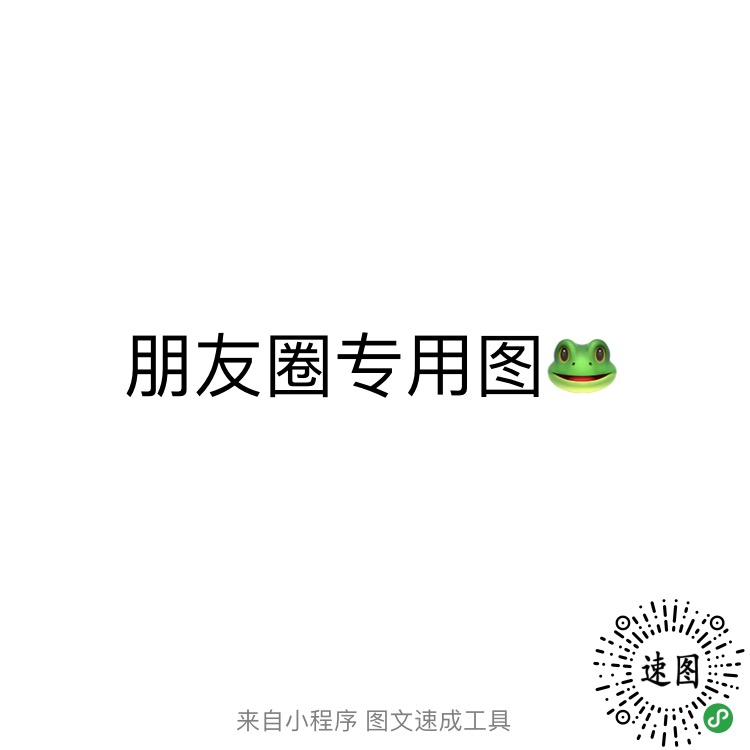
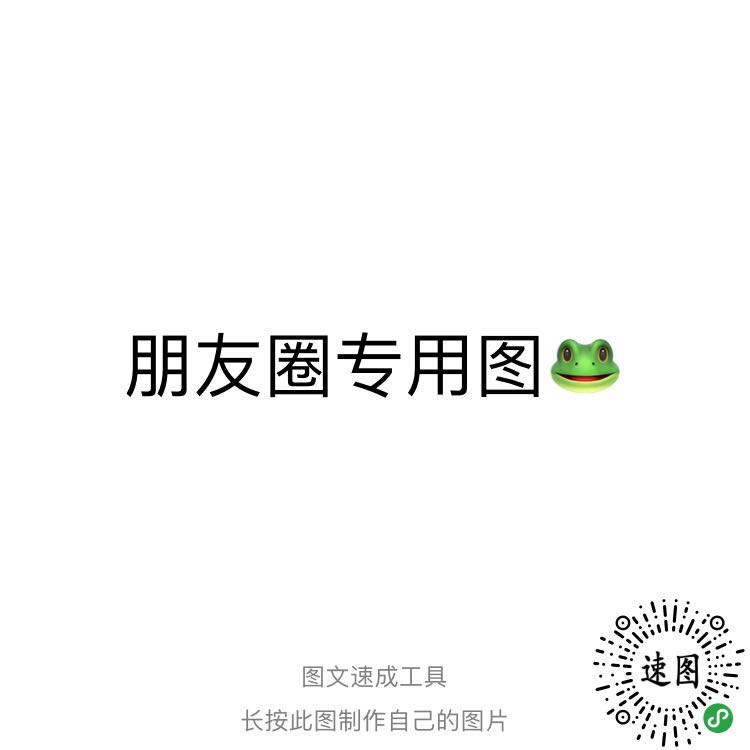
update

Changed region(s): [[0.3067, 0.8893, 0.6747, 0.9813], [0.7053, 0.4293, 0.828, 0.5213]]

diff --git a/page/black/index.js b/page/black/index.js
@@ -82,7 +82,7 @@ Page({
         },
         bigwordCode: "/image/logo_white.png",
         bigwordCodeSize: 80,
-        bigwordText: "来自小程序 图文速成工具",
+        bigwordText: "", 
         bigwordTextSize: 12,
         bigwordTextColor: "Gray"
     },
@@ -157,37 +157,29 @@ Page({
         var screenHeight = screenWidth
 
 
+        var data = {
+            bigwordText: app.globalData.bigwordText,
+            userInfo: app.globalData.userInfo,
+            hasUserInfo: true,
+            systemInfo: systemInfo,
+            showWidth: screenWidth,
+            showHeight: screenHeight
+        }
 
         if (app.globalData.userInfo) {
-            that.setData({
-                userInfo: app.globalData.userInfo,
-                hasUserInfo: true,
-                systemInfo: systemInfo,
-                showWidth: screenWidth,
-                showHeight: screenHeight
-            })
+            that.setData(data)
         } else if (this.data.canIUse) {
             app.userInfoReadyCallback = res => {
-                that.setData({
-                    userInfo: res.userInfo,
-                    hasUserInfo: true,
-                    systemInfo: systemInfo,
-                    showWidth: screenWidth,
-                    showHeight: screenHeight
-                })
+                data.userInfo = res.userInfo
+                that.setData(data)
             }
         } else {
             // 在没有 open-type=getUserInfo 版本的兼容处理
             wx.getUserInfo({
                 success: res => {
                     app.globalData.userInfo = res.userInfo
-                    that.setData({
-                        userInfo: res.userInfo,
-                        hasUserInfo: true,
-                        systemInfo: systemInfo,
-                        showWidth: screenWidth,
-                        showHeight: screenHeight
-                    })
+                    data.userInfo = res.userInfo
+                    that.setData(data)
                 }
             })
         }
@@ -278,6 +270,7 @@ Page({
         var fontColor = that.data.toFrontColorView
         var fillColor = that.data.toBackColorView
         var bigwordText = that.data.bigwordText
+        var bigwordText2 = "图文速成工具"
         var bigwordTextSize = that.data.bigwordTextSize
         var bigwordTextColor = that.data.bigwordTextColor
         var name = that.data.name
@@ -297,10 +290,14 @@ Page({
         context.setTextAlign("center")
         context.fillText(name, showWidth / 2, (showHeight + fontSize/2) / 2)
 
+
+
         context.setFillStyle(bigwordTextColor)
         context.setFontSize(bigwordTextSize)
         context.setTextAlign("center")
         context.fillText(bigwordText, showWidth / 2, showHeight - 10)
+        context.fillText(bigwordText2, showWidth / 2, showHeight - (bigwordTextSize + 20))
+
 
         context.drawImage(bigwordCode, showWidth - bigwordCodeSize, showHeight - bigwordCodeSize, bigwordCodeSize, bigwordCodeSize)
 

diff --git a/page/more_simple/index.js b/page/more_simple/index.js
@@ -7,8 +7,8 @@ Page({
         desc: "by tiankonguse",
         btnText: "一键速成",
         lableName: "你的图文",
-        imagePath: "/image/more.jpg",
-        defaultImagePath: "/image/more.jpg",
+        imagePath: "/image/more_sampe.jpg",
+        defaultImagePath: "/image/more_sampe.jpg",
         name: "朋友圈专用图",
         defaultName: "在此输入多行文本，支持表情哦",
         maskHidden: true,
@@ -86,7 +86,7 @@ Page({
         },
         bigwordCode: "/image/logo_white.png",
         bigwordCodeSize: 80,
-        bigwordText: "来自小程序 图文速成工具",
+        bigwordText: "", 
         bigwordTextSize: 12,
         bigwordTextColor: "Gray",
         nameList: [],
@@ -247,6 +247,7 @@ Page({
         var screenHeight = screenWidth
 
         var data = {
+            bigwordText: app.globalData.bigwordText,
             userInfo: app.globalData.userInfo,
             hasUserInfo: true,
             systemInfo: systemInfo,
@@ -362,6 +363,7 @@ Page({
         var fontColor = that.data.toFrontColorView
         var fillColor = that.data.toBackColorView
         var bigwordText = that.data.bigwordText
+        var bigwordText2 = "图文速成工具"
         var bigwordTextSize = that.data.bigwordTextSize
         var bigwordTextColor = that.data.bigwordTextColor
         var bigwordCodeSize = that.data.bigwordCodeSize
@@ -389,9 +391,11 @@ Page({
                 var name = nameList[j]
                 if (nameList.length > 1){
                     context.setTextAlign("left")
+                    console.log(i, j, name, name.length)
                     context.fillText(name, (showWidth - that.data.maxTextWidth)/2, firstHeight + tmpSize)
                 }else{
                     context.setTextAlign("center")
+                    console.log(i, j, name,  name.length)
                     context.fillText(name, showWidth / 2, firstHeight + tmpSize)
                 }
                 firstHeight += tmpSize + wordPad
@@ -404,6 +408,7 @@ Page({
         context.setTextAlign("center")
         context.setTextBaseline('bottom')
         context.fillText(bigwordText, showWidth / 2, showHeight - 10)
+        context.fillText(bigwordText2, showWidth / 2, showHeight - (bigwordTextSize + 20))
         context.draw(true)
 
         //context.setGlobalAlpha(0.8)

diff --git a/page/more/index.js b/page/more/index.js
@@ -88,7 +88,7 @@ Page({
         },
         bigwordCode: "/image/logo_white.png",
         bigwordCodeSize: 80,
-        bigwordText: "来自小程序 图文速成工具",
+        bigwordText: "", 
         bigwordTextSize: 12,
         bigwordTextColor: "Gray",
         nameList: [],
@@ -206,7 +206,7 @@ Page({
             "nameListSize": 0,
             "nameList": []
         }
-        var realHeight = 100
+        var realHeight = 30
         for (var i = 0; i < that.data.nameList.length; i++) {
             var nameObj = that.getNameHeight(that.data.nameList[i])
             realHeight += nameObj.height
@@ -263,6 +263,7 @@ Page({
         var screenHeight = screenWidth
 
         var data = {
+            bigwordText: app.globalData.bigwordText,
             userInfo: app.globalData.userInfo,
             hasUserInfo: true,
             systemInfo: systemInfo,
@@ -379,6 +380,7 @@ Page({
         var fontColor = that.data.toFrontColorView
         var fillColor = that.data.toBackColorView
         var bigwordText = that.data.bigwordText
+        var bigwordText2 = "图文速成工具"
         var bigwordTextSize = that.data.bigwordTextSize
         var bigwordTextColor = that.data.bigwordTextColor
         var bigwordCodeSize = that.data.bigwordCodeSize
@@ -443,6 +445,7 @@ Page({
         context.setTextAlign("center")
         context.setTextBaseline('bottom')
         context.fillText(bigwordText, showWidth / 2, showHeight - 10)
+        context.fillText(bigwordText2, showWidth / 2, showHeight - (bigwordTextSize + 20))
         context.draw(true)
 
         //context.setGlobalAlpha(0.8)

diff --git a/app.js b/app.js
@@ -15,7 +15,8 @@ App({
         AppID: "wxe9d370b20c760b2c",
         AppSecret: "4ffcf61f4e159300cb4edead77480b1a",
         shareTitle: "图文速成工具",
-        systemInfo: {}
+        systemInfo: {},
+        bigwordText: "长按此图制作自己的图片"
     },
     getUserInfo: function (res){
         var app = this;
